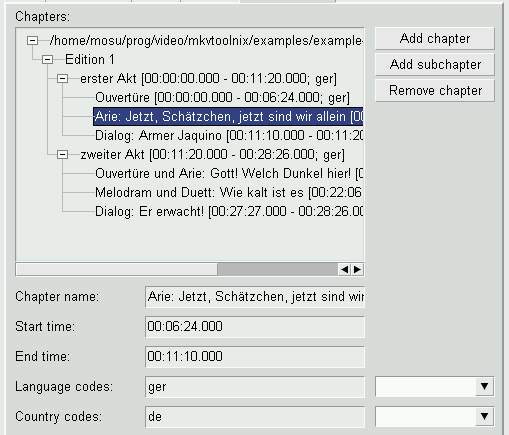
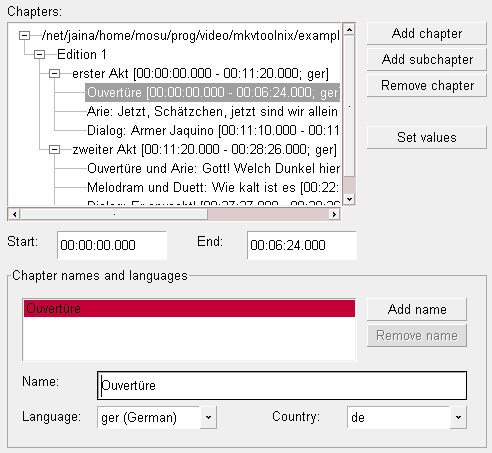
Updated the documentation for the GUI. It now reflects the new chapter editor layout.

diff --git a/doc/mkvmerge-gui.html b/doc/mkvmerge-gui.html
@@ -853,9 +853,15 @@
     <tr>
       <td valign="top">
         <p>The chapter editor consists of three parts: the tree view of
-          all chapters, the three buttons used for adding and removing
+          all chapters, the four buttons used for adding and removing
           chapter entries, and the input boxes which are used for
           setting the chapter entry's data.</p>
+
+        <p>In Matroska files one chapter is defined by having a start
+          time, a name and a language that is associated with that
+          name. You can have several names for one chapter and each
+          associated with a different language. You may also add an end
+          time, but that is not mandatory.</p>
 
         <p>A new chapter file is started with the <code>New</code>
           option from the <code>Chapter editor</code> menu. You can add
@@ -873,14 +879,23 @@
 
         <p>After selecting a chapter entry you can change its data. The
           format for the start and end time are either
-          <code>HH:MM:SS.mmm</code> or simply <code>HH:MM:SS</code>. The
-          language codes are the same ISO639-2 language codes used
-          everywhere else. Please note that you can use more than one
-          language codes by separating them with spaces. You can add a
-          language code to the already entered codes by selecting it
-          from the drop down box. The same is true for the country codes
-          which are ISO639-1 codes. You can have more than country code
-          by separating them with spaces.</p>
+          <code>HH:MM:SS.mmm</code> or simply <code>HH:MM:SS</code>. One
+          chapter name will already have been added. You can edit it and
+          select the language that this name is given in. This way you
+          could provide names in several languages, e.g. 'The hero
+          arrives' with 'eng' as the language and 'Der Held kommt an'
+          with 'ger' as the language. Just hit the <code>Add name</code>
+          button if you need more entries and <code>Remove name</code>
+          in order to get rid of one.</p>
+
+        <p>Creating many chapters and always changing the language can
+          be quite some work. Therefore you can select which language
+          and country tags <i>mmg</i> should add by default with the
+          <code>Set default values</code> menu entry in the
+          <code>Chapters</code> menu. The <code>Set values</code> button
+          does something similar. With it you can apply a language
+          and/or country to the currently selected entry and all its
+          children.</p>
 
         <p>Saving chapters to XML files can be done with <code>Save</code> or
           <code>Save as</code>. <code>Save as</code> cannot be used to
